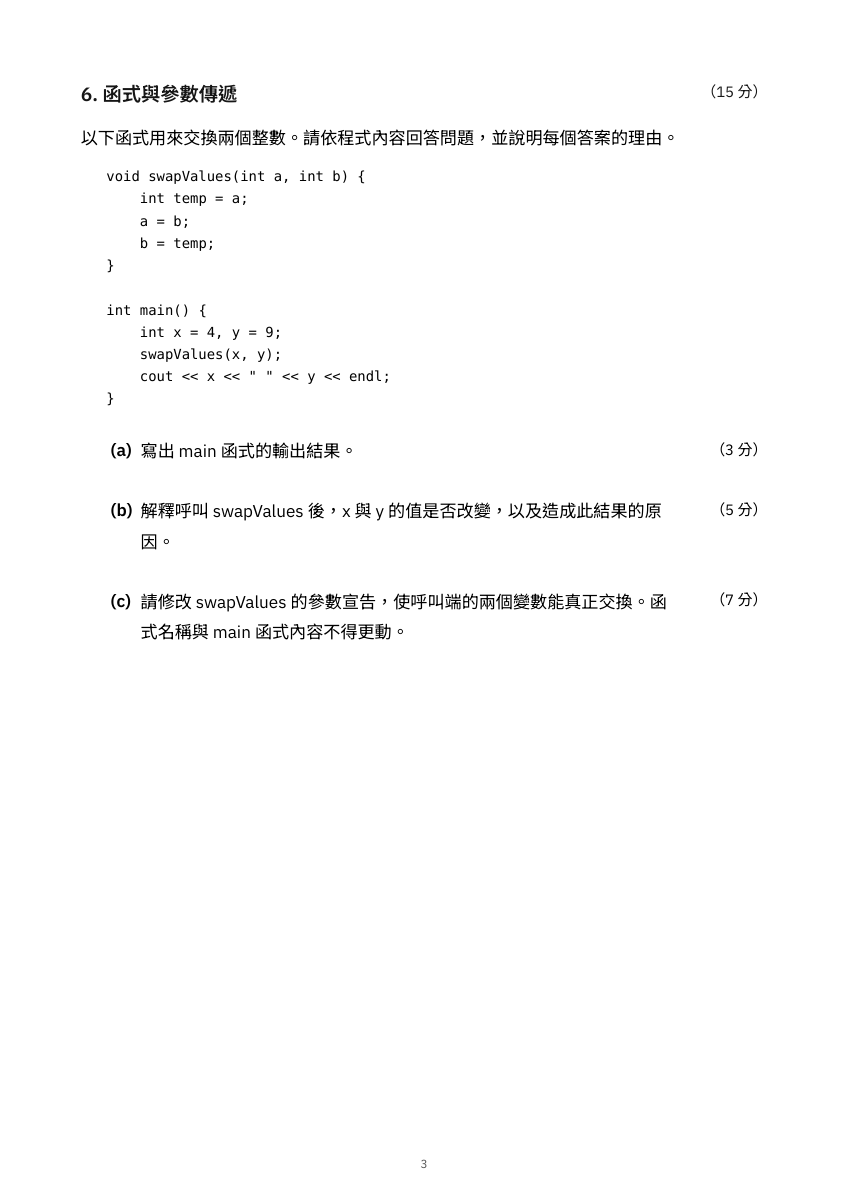
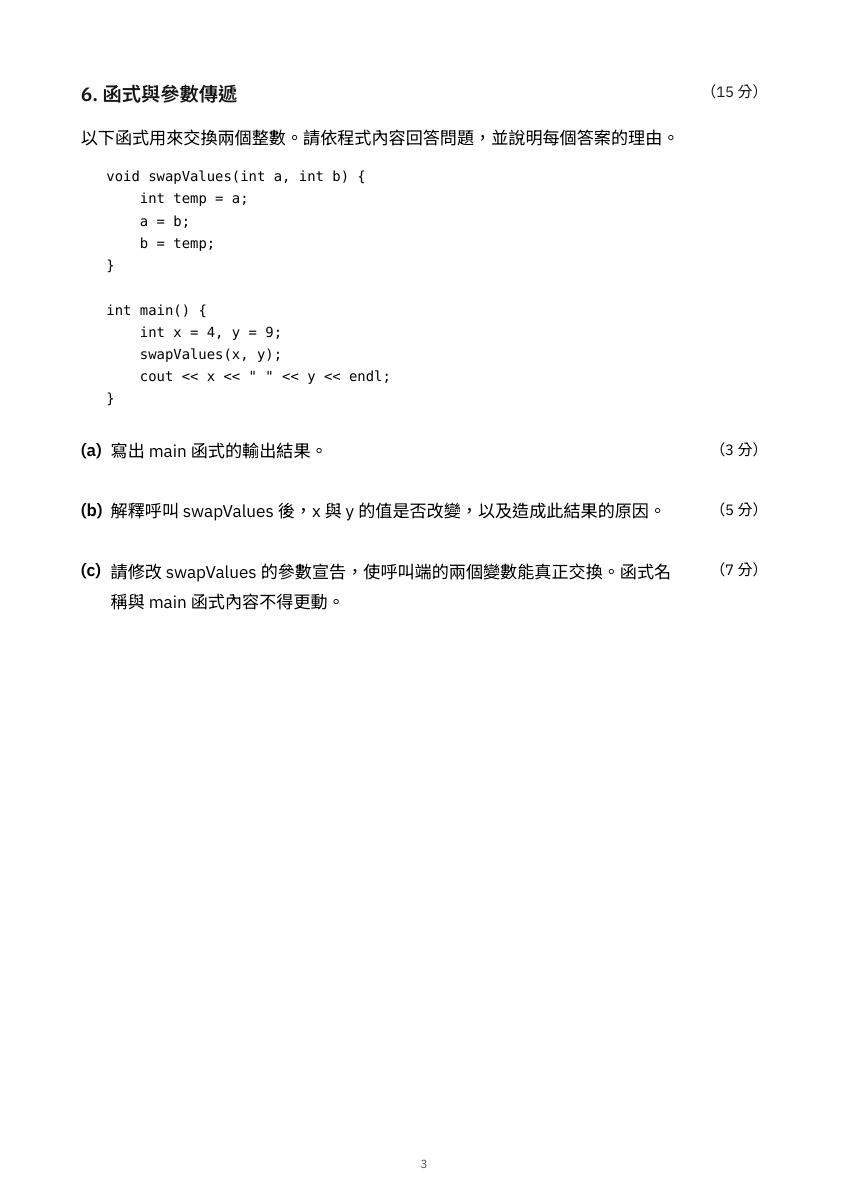
fix: align exam subquestions and tighten list leading

Changed region(s): [[0.0919, 0.37, 0.7962, 0.555], [0.8575, 0.4625, 0.8881, 0.5242]]

diff --git a/backend/apps/contests/static/exports/paper-exam-sheet.css b/backend/apps/contests/static/exports/paper-exam-sheet.css
@@ -137,7 +137,7 @@ p, li {
 }
 
 .grouped-question .question-body {
-  margin-left: 28px;
+  margin-left: 0;
   padding-left: 28px;
 }
 
@@ -197,12 +197,13 @@ p, li {
 
 .markdown-content ul,
 .markdown-content ol {
-  margin: 4px 0 12px;
+  margin: 4px 0 8px;
   padding-left: 24px;
 }
 
 .markdown-content li {
-  margin: 2px 0;
+  line-height: 1.35;
+  margin: 0;
 }
 
 .markdown-content li > p {
